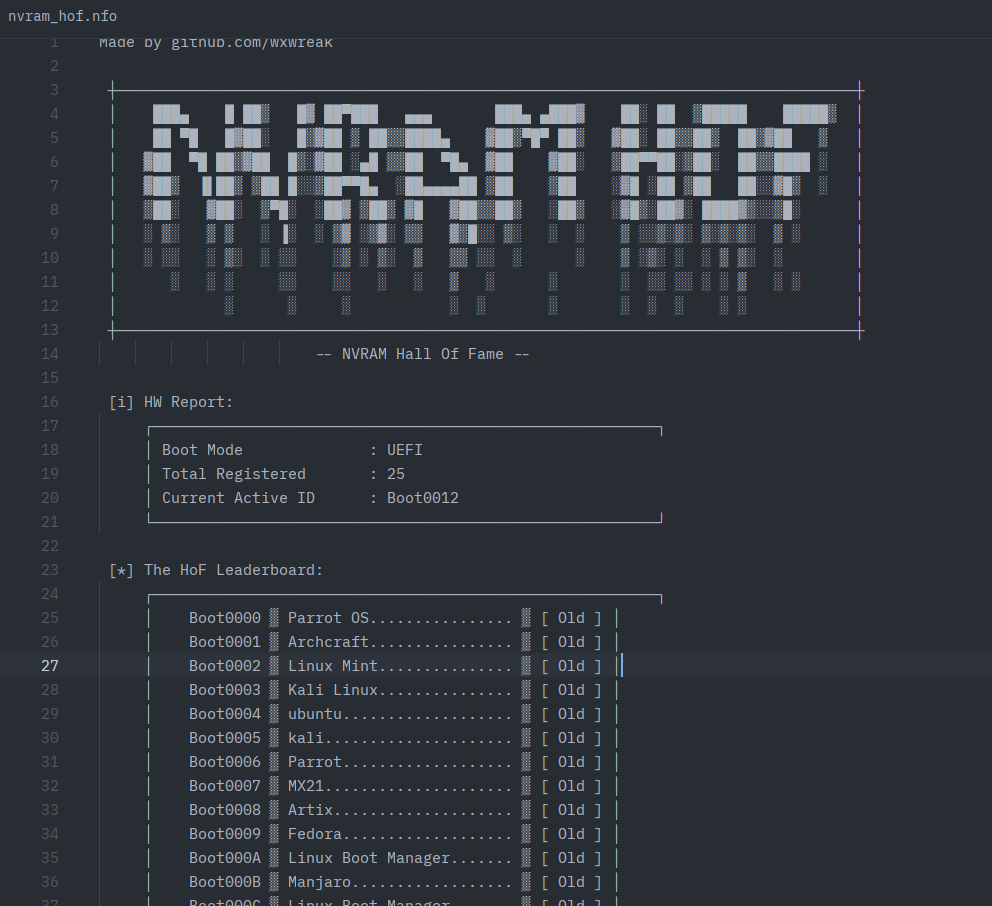
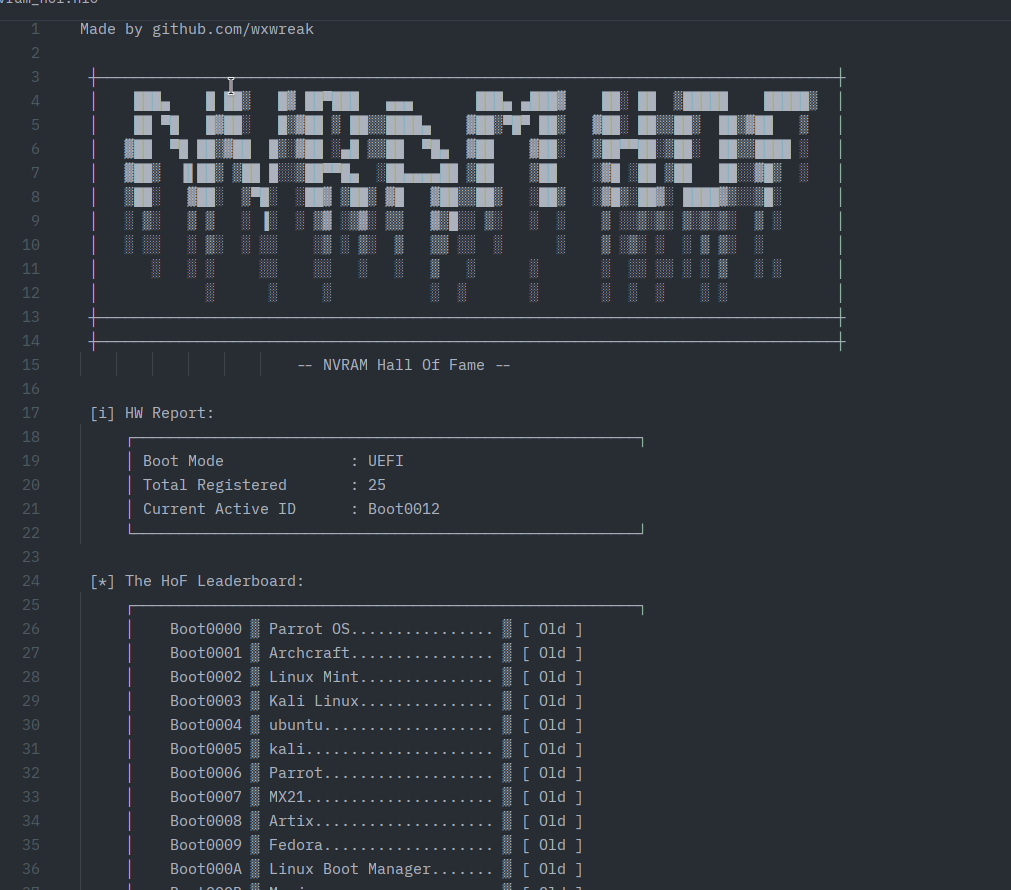
feat: new screenshot & removed vertical lines on the right side of the leaderboard

diff --git a/src/hof.rs b/src/hof.rs
@@ -50,6 +50,9 @@ pub fn gen_nfo_f(entries: &[CleanBootEntry], current_id: &str) -> std::io::Resul
     nfo.push_str(
         " ┼──────────────────────────────────────────────────────────────────────────────────┼\n",
     );
+    nfo.push_str(
+        " ┼──────────────────────────────────────────────────────────────────────────────────┼\n",
+    );
     nfo.push_str("                        -- NVRAM Hall Of Fame --\n\n");
 
     nfo.push_str(" [i] HW Report:\n");
@@ -85,12 +88,14 @@ pub fn gen_nfo_f(entries: &[CleanBootEntry], current_id: &str) -> std::io::Resul
         };
 
         nfo.push_str(&format!(
-            "     │ {}Boot{} ▒ {:.<25} ▒ [ {} ] │\n",
+            "     │ {}Boot{} ▒ {:.<25} ▒ [ {} ] \n",
             prefix, entry.id, entry.name, status
         ));
     }
     nfo.push_str("     └────────────────────────────────────────────────────────┘\n\n");
-    nfo.push_str(" ┼────────────────────────────────────────────────────────────┼\n");
+    nfo.push_str(
+        " ┼──────────────────────────────────────────────────────────────────────────────────┼\n",
+    );
 
     let mut file = File::create("nvram_hof.nfo")?;
     file.write_all(nfo.as_bytes())?;
